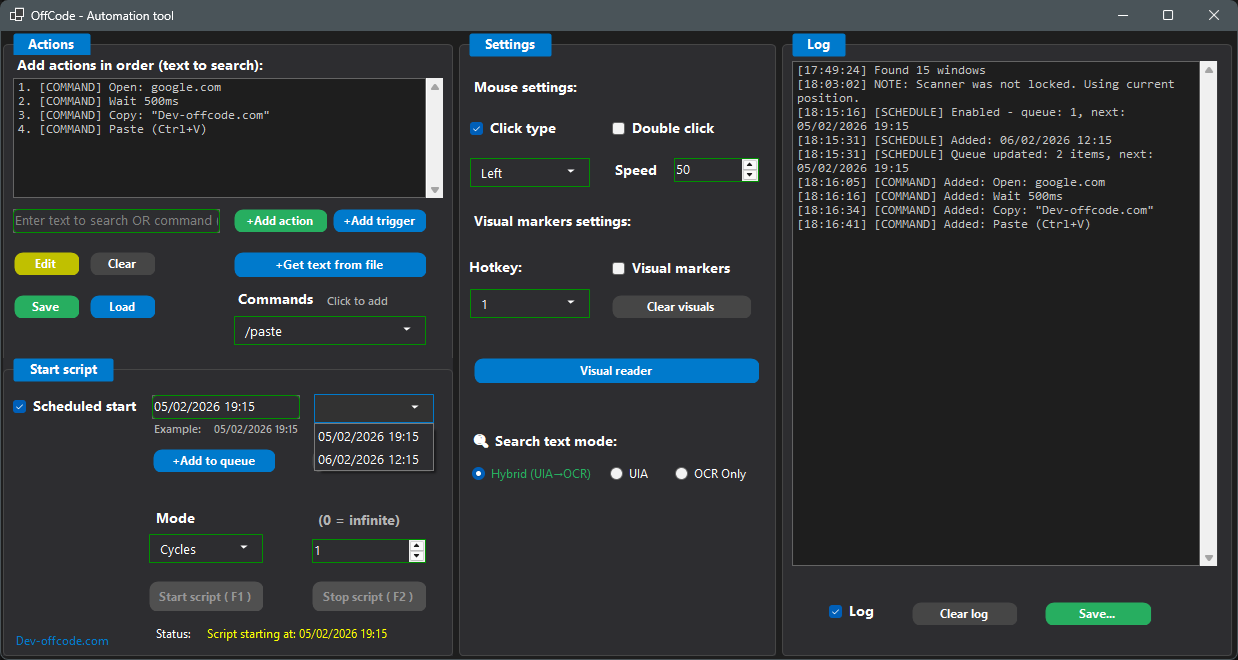
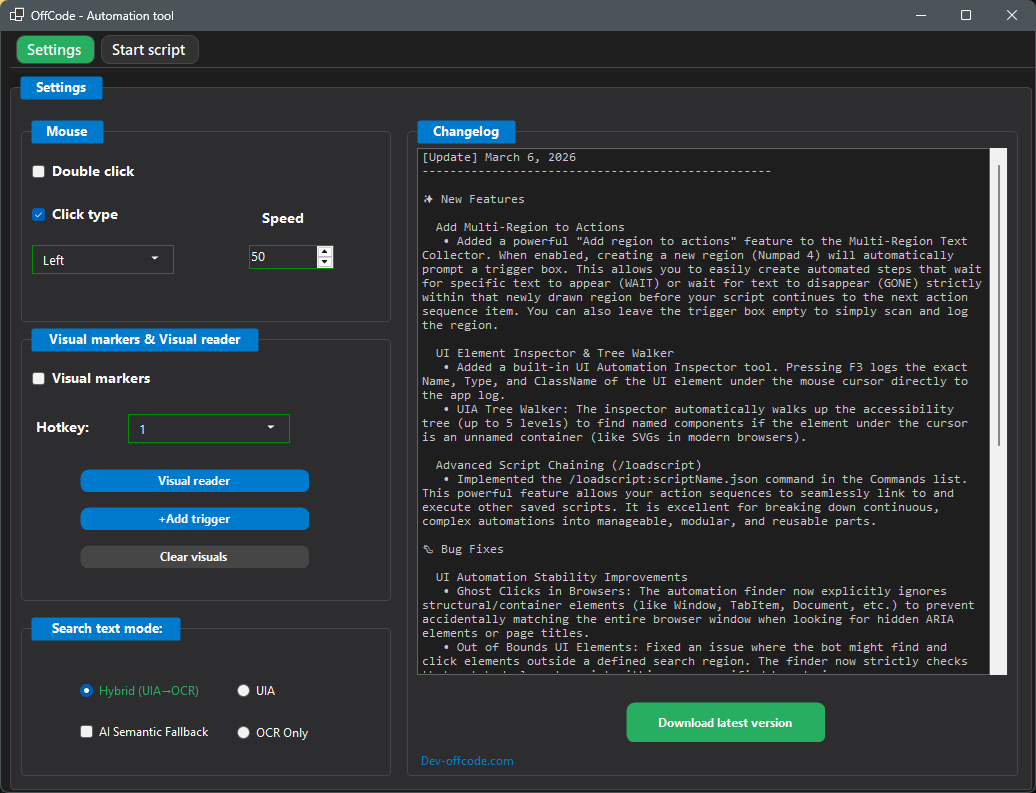
Add files via upload

diff --git a/AutomationTool.html b/AutomationTool.html
@@ -7,11 +7,11 @@
 
     <title>Offcode Automation Tool – Windows Desktop Automation</title>
     <meta name="description"
-        content="Automate repetitive tasks, data entry, and workflows on Windows without coding. Offcode Automation combines Smart OCR, UI Automation, and macro recording.">
+        content="Automate repetitive tasks, data entry, and workflows on Windows without coding. Offcode Automation combines Smart OCR, UI Automation, AI script generation, and macro recording.">
     <meta name="author" content="OffCrypt">
-    <meta name="last-modified" content="2026-03-05">
+    <meta name="last-modified" content="2026-03-08">
     <meta name="keywords"
-        content="windows automation, desktop automation, automation tool, ocr automation, script automation, windows automation tool, auto clicker, macro recorder, rpa, robotic process automation, bot maker, repetitive tasks automation, no-code automation, data entry automation">
+        content="windows automation, desktop automation, automation tool, ocr automation, script automation, AI automation, AI script generator, windows automation tool, auto clicker, macro recorder, rpa, robotic process automation, bot maker, repetitive tasks automation, no-code automation, data entry automation">
     <meta name="robots" content="index, follow">
 
     <meta property="og:type" content="website">
@@ -19,7 +19,7 @@
     <meta property="og:url" content="https://www.dev-offcode.com/AutomationTool.html">
     <meta property="og:title" content="Offcode Automation Tool – Windows Desktop Automation">
     <meta property="og:description"
-        content="Automate repetitive tasks, data entry, and workflows on Windows without coding. Offcode Automation combines Smart OCR, UI Automation, and macro recording.">
+        content="Automate repetitive tasks, data entry, and workflows on Windows without coding. Offcode Automation combines Smart OCR, UI Automation, AI script generation, and macro recording.">
     <meta property="og:image" content="https://www.dev-offcode.com/OffCodeAutomation.png">
     <meta property="og:image:width" content="1200">
     <meta property="og:image:height" content="630">
@@ -31,7 +31,7 @@
     <meta name="twitter:url" content="https://www.dev-offcode.com/AutomationTool.html">
     <meta name="twitter:title" content="Offcode Automation Tool – Windows Desktop Automation">
     <meta name="twitter:description"
-        content="Automate repetitive tasks, data entry, and workflows on Windows without coding. Offcode Automation combines Smart OCR, UI Automation, and macro recording.">
+        content="Automate repetitive tasks, data entry, and workflows on Windows without coding. Offcode Automation combines Smart OCR, UI Automation, AI script generation, and macro recording.">
     <meta name="twitter:image" content="https://www.dev-offcode.com/OffCodeAutomation.png">
 
     <!-- Social Media Links -->
@@ -73,7 +73,7 @@
         "name": "Offcode Automation Tool",
         "applicationCategory": "BusinessApplication, DeveloperApplication, UtilitiesApplication",
         "operatingSystem": "Windows",
-        "description": "Windows desktop automation tool that combines Smart OCR text detection, UI Automation, and macro recording to automate repetitive tasks, data entry, and web workflows without coding.",
+        "description": "Windows desktop automation tool that combines Smart OCR text detection, UI Automation, AI script generation (OpenAI, Claude, Gemini, Groq, Ollama), AI Semantic Search, and macro recording to automate repetitive tasks, data entry, and web workflows without coding.",
         "url": "https://www.dev-offcode.com/AutomationTool.html",
         "image": "https://www.dev-offcode.com/OffCodeAutomation.png",
         "screenshot": [
@@ -119,10 +119,10 @@
                 "https://www.youtube.com/@OffCrypt"
             ]
         },
-        "softwareVersion": "1.1",
-        "releaseNotes": "Scheduled start queue (multiple times, add/remove), improved hotkeys (F1/F2, Numpad 1-4), text list for automation, and documentation updates",
+        "softwareVersion": "1.2",
+        "releaseNotes": "AI Script Builder (natural language to scripts), AI Social Media post generator, AI Semantic Search fallback, UI Element Inspector (F3), script chaining (/loadscript), Multi-Region trigger text",
         "datePublished": "2025-01-22",
-        "dateModified": "2026-03-05"
+        "dateModified": "2026-03-08"
     }
     </script>
 
@@ -200,6 +200,22 @@
                 "acceptedAnswer": {
                     "@type": "Answer",
                     "text": "No. Offcode Automation Tool is designed for Windows users without programming experience – you build automations using visual actions, simple commands and an easy script editor."
+                }
+            },
+            {
+                "@type": "Question",
+                "name": "What is the AI Script Builder?",
+                "acceptedAnswer": {
+                    "@type": "Answer",
+                    "text": "The AI Script Builder lets you describe your automation in natural language (e.g. 'Open Notepad, type Hello, save the file'). Choose an LLM provider (OpenAI, Claude, Gemini, Groq, or Ollama) and the AI generates a ready-to-run action sequence that you can insert into your script."
+                }
+            },
+            {
+                "@type": "Question",
+                "name": "What is AI Semantic Search?",
+                "acceptedAnswer": {
+                    "@type": "Answer",
+                    "text": "When OCR and UI Automation cannot find an exact text match, AI Semantic Search interprets your search intent and locates the right on-screen element. For example, searching for 'submit' might find a button labeled 'Send' or 'OK'."
                 }
             },
             {
@@ -393,21 +409,30 @@
 
                         <p class="intro-description lead-text"><strong>OffCode Automation Tool</strong> —
                             a powerful Windows desktop automation application that automates repetitive tasks and data
-                            entry without coding. Think of it as a "robot" that can see your screen, find text or
-                            buttons, and perform actions like clicking, typing, and navigating – just like a human
-                            would.</p>
+                            entry without coding. <strong>AI-powered features</strong> let you generate automation scripts
+                            from natural language (OpenAI, Claude, Gemini, Groq, Ollama) and create social media posts
+                            with AI. Think of it as a "robot" that can see your screen, find text or buttons, and perform
+                            actions like clicking, typing, and navigating – just like a human would.</p>
 
                         <p class="intro-description">
-                            The application combines <strong>three key technologies</strong>: OCR (Optical Character
-                            Recognition) reads text directly from your screen, UI Automation finds buttons and controls
-                            using Windows' built-in accessibility features, and mouse/keyboard simulation performs
-                            actions automatically. This powerful combination allows you to automate tasks that would
-                            otherwise require manual intervention.
+                            The application combines <strong>OCR</strong> (reads text from your screen), <strong>UI
+                                Automation</strong> (finds buttons and controls via Windows accessibility), and
+                            <strong>mouse/keyboard simulation</strong>. When exact text isn't found, <strong>AI Semantic
+                                Search</strong> can interpret your intent and locate the right element. This powerful
+                            combination allows you to automate tasks that would otherwise require manual intervention.
                         </p>
 
 
 
                         <div class="intro-highlights">
+                            <div class="highlight-item">
+                                <span class="highlight-icon">🤖</span>
+                                <span class="highlight-text">AI Script Builder</span>
+                            </div>
+                            <div class="highlight-item">
+                                <span class="highlight-icon">✍</span>
+                                <span class="highlight-text">AI Social Media</span>
+                            </div>
                             <div class="highlight-item">
                                 <span class="highlight-icon">🔍</span>
                                 <span class="highlight-text">OCR Text Detection</span>
@@ -455,6 +480,24 @@
                             <div class="zoom-icon">🔍</div>
                         </div>
                     </div>
+
+                    <div class="image-card featured" data-image="OffCodeAutomation.png"
+                    data-title="OffCode Automation Tool"
+                    data-desc="Powerful desktop automation interface with visual scripting">
+                    <img src="ScriptAutomation.png" alt="OffCode Automation Tool - Main Interface">
+                    <div class="image-overlay">
+                        <div class="zoom-icon">🔍</div>
+                    </div>
+                </div>
+
+                <div class="image-card featured" data-image="OffCodeAutomation.png"
+                data-title="OffCode Automation Tool"
+                data-desc="Create scripts with AI, Generate social media posts with AI">
+                <img src="AiToolsAutomation.png" alt="OffCode Automation Tool - AI Tools">
+                <div class="image-overlay">
+                    <div class="zoom-icon">🔍</div>
+                </div>
+            </div>
 
                     <div class="image-card featured" data-image="ScannerTriggerP.png"
                         data-title="OffCode Automation Tool"
@@ -569,15 +612,41 @@
                     <p class="features-subtitle">Everything you need for desktop automation</p>
 
                     <div class="features-grid">
+                        <!-- AI Script Builder -->
+                        <div class="feature-card">
+                            <div class="feature-icon">🤖</div>
+                            <h3>AI Script Builder</h3>
+                            <p>Generate automation scripts from natural language using cloud LLMs</p>
+                            <ul class="feature-list">
+                                <li>Choose provider: OpenAI, Claude, Gemini, Groq, or Ollama (local or cloud)</li>
+                                <li>Describe your automation in plain English</li>
+                                <li>AI outputs a ready-to-run action sequence</li>
+                                <li>Insert generated steps directly into your script</li>
+                            </ul>
+                        </div>
+
+                        <!-- AI Social Media -->
+                        <div class="feature-card">
+                            <div class="feature-icon">✍</div>
+                            <h3>AI Social Media</h3>
+                            <p>Create social media posts with AI assistance</p>
+                            <ul class="feature-list">
+                                <li>Generate captions and content ideas</li>
+                                <li>Use your preferred LLM provider</li>
+                                <li>Copy results to clipboard for pasting</li>
+                            </ul>
+                        </div>
+
                         <!-- Text Detection -->
                         <div class="feature-card">
                             <div class="feature-icon">🔍</div>
                             <h3>Text Detection</h3>
-                            <p>Find text on screen using OCR</p>
+                            <p>Find text on screen using OCR and AI fallback</p>
                             <ul class="feature-list">
                                 <li>OCR reads any visible text</li>
                                 <li>UI Automation for buttons/controls</li>
                                 <li>Hybrid mode combines both</li>
+                                <li><strong>AI Semantic Search</strong> — when exact match fails, AI interprets intent and finds the right element</li>
                                 <li>Works with any application</li>
                             </ul>
                         </div>
@@ -607,8 +676,9 @@
                             <h3>Scanner Triggers</h3>
                             <p>Create advanced automation triggers using the Visual Reader. Use `[WAIT FOR TEXT]
                                 "message"` to pause your script until specific text appears in the scanner area. Use
-                                `[WAIT GONE] "message"` to wait until text disappears. This enables conditional
-                                automation based on screen content changes.</p>
+                                `[WAIT GONE] "message"` to wait until text disappears. When adding a new Multi-Region
+                                (Numpad 4), you can optionally set a trigger text so the script waits for text to appear
+                                or disappear <em>within that region</em> before continuing.</p>
                         </div>
 
                         <!-- Mouse & Keyboard -->
@@ -633,6 +703,7 @@
                                 <li>Visual action builder</li>
                                 <li>Loop support (0=infinite)</li>
                                 <li>Save/Load/Edit scripts as JSON</li>
+                                <li><strong>Script chaining</strong> — Use <code>/loadscript:name.json</code> to run another saved script from the Scripts folder</li>
                             </ul>
                         </div>
 
@@ -675,6 +746,8 @@
                                 <li>/startprocess:notepad.exe</li>
                                 <li>/stopprocess:notepad.exe</li>
                                 <li>/openwebsite:google.com</li>
+                                <li>/gettextfromlist — Copy next line from text list to clipboard</li>
+                                <li>/loadscript:script.json — Run another saved script</li>
                             </ul>
                         </div>
 
@@ -714,6 +787,7 @@
                             <ul class="feature-list">
                                 <li>F1 — Start automation</li>
                                 <li>F2 — Stop automation</li>
+                                <li>F3 — Inspect UI element under cursor (name, type, class)</li>
                                 <li>Custom hotkey (1–9, F3–F12, Numpad) — Add visual marker</li>
                                 <li>Numpad 1 — Manual scan (Visual Reader)</li>
                                 <li>Numpad 2 — Lock scanner position</li>
@@ -767,12 +841,13 @@
                             <div class="feature-icon" style="margin: 0 auto 1.5rem auto;">🌍</div>
                             <h3 style="text-align: center;">Real-world Use Cases</h3>
                             <ul class="feature-list" style="text-align: left; display: inline-block; margin-top: 1rem;">
-                                <li>Social media automation (posting, liking, commenting)</li>
+                                <li>Social media automation (posting, liking, commenting) — use AI to generate captions</li>
                                 <li>Web browsing and repetitive data entry (form filling, searches)</li>
                                 <li>Document work (Excel, Word tasks and reports)</li>
                                 <li>Gaming (repetitive tasks, monitoring game events)</li>
                                 <li>Data collection from multiple screens</li>
                                 <li>Monitoring dynamic content in real-time</li>
+                                <li>AI-generated scripts — describe workflows in plain English and run them</li>
                             </ul>
                         </div>
                     </div>
@@ -797,7 +872,8 @@
                         <div class="feature-card">
                             <div class="feature-icon">📝</div>
                             <h3>Automation changelog</h3>
->                            <p>See what has changed recently, including Multi-Region improvements, UI element inspection,
+                            > <p>See what has changed recently, including Multi-Region improvements, UI element
+                                inspection,
                                 script chaining, and stability fixes in the Visual Reader and automation flow.</p>
                             <a href="AutomationChangelog.html" class="button secondary-download">Read automation
                                 updates</a>
@@ -952,6 +1028,14 @@
                                     iteration can use a different value from your list.</p>
                             </div>
                             <div class="faq-item">
+                                <h4>What is the AI Script Builder?</h4>
+                                <p>Describe your automation in plain English (e.g. &quot;Open Notepad, type Hello, save the file&quot;). Choose an LLM provider (OpenAI, Claude, Gemini, Groq, or Ollama — including local Ollama). The AI generates a ready-to-run action sequence that you can insert into your script with one click.</p>
+                            </div>
+                            <div class="faq-item">
+                                <h4>What is AI Semantic Search?</h4>
+                                <p>When OCR and UI Automation cannot find an exact text match, AI Semantic Search interprets your search intent and locates the right on-screen element. For example, searching for &quot;submit&quot; might find a button labeled &quot;Send&quot; or &quot;OK&quot;.</p>
+                            </div>
+                            <div class="faq-item">
                                 <h4>What are Scanner Triggers?</h4>
                                 <p>Scanner Triggers enable conditional automation using the Visual Reader. Use `[WAIT
                                     FOR TEXT] "message"` to pause your script until specific text appears in the scanner
@@ -1044,30 +1128,7 @@
                 style="max-width: 150px;" /></a>
     </div>
 
-    <script>
-        // Check for referral code in URL
-        document.addEventListener('DOMContentLoaded', function () {
-            const urlParams = new URLSearchParams(window.location.search);
-            const refCode = urlParams.get('ref');
 
-            // XSS Prevention: Validate ref code against strict whitelist (OWASP)
-            if (refCode && /^[A-Za-z0-9_-]{1,50}$/.test(refCode)) {
-                // Find all links to PurchaseAutomationTool.html
-                const purchaseLinks = document.querySelectorAll('a[href^="PurchaseAutomationTool.html"]');
-
-                purchaseLinks.forEach(link => {
-                    // Append ref code to existing href
-                    const currentHref = link.getAttribute('href');
-                    const separator = currentHref.includes('?') ? '&' : '?';
-                    link.setAttribute('href', `${currentHref}${separator}ref=${encodeURIComponent(refCode)}`);
-                });
-
-                // Optional: Store in localStorage in case they navigate away and come back
-                localStorage.setItem('offcrypt_ref', refCode);
-                console.log('Referral code active:', refCode);
-            }
-        });
-    </script>
 
     </div>
     </main>

diff --git a/AutomationChangelog.html b/AutomationChangelog.html
@@ -9,7 +9,7 @@
     <meta name="description"
         content="Offcode Automation Tool changelog - Track the latest updates, improvements, and new features for the Windows automation tool.">
     <meta name="author" content="OffCrypt">
-    <meta name="last-modified" content="2026-03-03">
+    <meta name="last-modified" content="2026-03-08">
     <meta name="robots" content="noindex, follow">
 
     <!-- Security Headers -->
@@ -80,9 +80,9 @@
         },
         "releaseNotes": {
             "@type": "TechArticle",
-            "headline": "Offcode Automation Tool - Multi-Region Actions and Stability Fixes",
+            "headline": "Offcode Automation Tool - License Security, AI Script Builder, and Stability Fixes",
             "datePublished": "2026-03-03",
-            "dateModified": "2026-03-03",
+            "dateModified": "2026-03-08",
             "url": "https://www.dev-offcode.com/AutomationChangelog.html"
         }
     }
@@ -228,13 +228,60 @@
                             the latest developments in Offcode Automation Tool's journey to provide the most advanced
                             and secure automation solution for Windows.</p>
 
-                        <p><strong>Latest Release:</strong> March 6, 2026 update introduces the powerful
-                            "Add region to actions" feature for Multi-Region collectors and improves "Set region"
-                            stability.</p>
+                        <p><strong>Latest Release:</strong> March 8, 2026 update introduces AI-powered features: AI
+                            Script Builder (natural language to scripts), AI Social Media post generator, AI Semantic
+                            Search fallback, UI Element Inspector (F3), a clearer UI with tab control, and security
+                            improvements.</p>
                     </div>
 
                     <div class="changelog-wrapper">
-                        <!-- March 3, 2026 Update -->
+                        <!-- March 8, 2026 Update -->
+                        <div class="changelog-entry">
+                            <div class="changelog-version">
+                                <span class="version-tag">Update</span>
+                                <span class="version-date">March 8, 2026</span>
+                            </div>
+                            <div class="changelog-changes">
+                                <h3>✨ New Features</h3>
+                                <h4>AI Script Builder</h4>
+                                <ul>
+                                    <li>Generate automation scripts from natural language. Describe your workflow in
+                                        plain English (e.g. &quot;Open Notepad, type Hello, save the file&quot;) and the
+                                        AI produces a ready-to-run action sequence. Supports OpenAI, Claude, Gemini,
+                                        Groq, and Ollama (including local models). Click the AI button on the main form
+                                        to open the dialog and insert generated steps directly into your script.</li>
+                                </ul>
+
+                                <h4>AI Social Media</h4>
+                                <ul>
+                                    <li>Create social media posts with AI assistance. Generate captions and content ideas
+                                        using your preferred LLM provider. Copy results to clipboard for pasting into
+                                        your automation or posting.</li>
+                                </ul>
+
+                                <h4>AI Semantic Search</h4>
+                                <ul>
+                                    <li>When OCR and UI Automation cannot find an exact text match, AI Semantic Search
+                                        interprets your search intent and locates the right on-screen element. For
+                                        example, searching for &quot;submit&quot; might find a button labeled &quot;Send&quot; or
+                                        &quot;OK&quot;.</li>
+                                </ul>
+
+                                <h3>✨ UI Improvements</h3>
+                                <h4>Tab Control & Clearer Interface</h4>
+                                <ul>
+                                    <li>Added tab control for better organization of features. The UI is now
+                                        comprehensively clearer and easier to navigate.</li>
+                                </ul>
+
+                                <h3>🔐 Security</h3>
+                                <ul>
+                                    <li>Various security improvements to the license and validation system.</li>
+                                </ul>
+                            </div>
+                        </div>
+
+                        <!-- March 6, 2026 Update -->
                         <div class="changelog-entry">
                             <div class="changelog-version">
                                 <span class="version-tag">Update</span>
